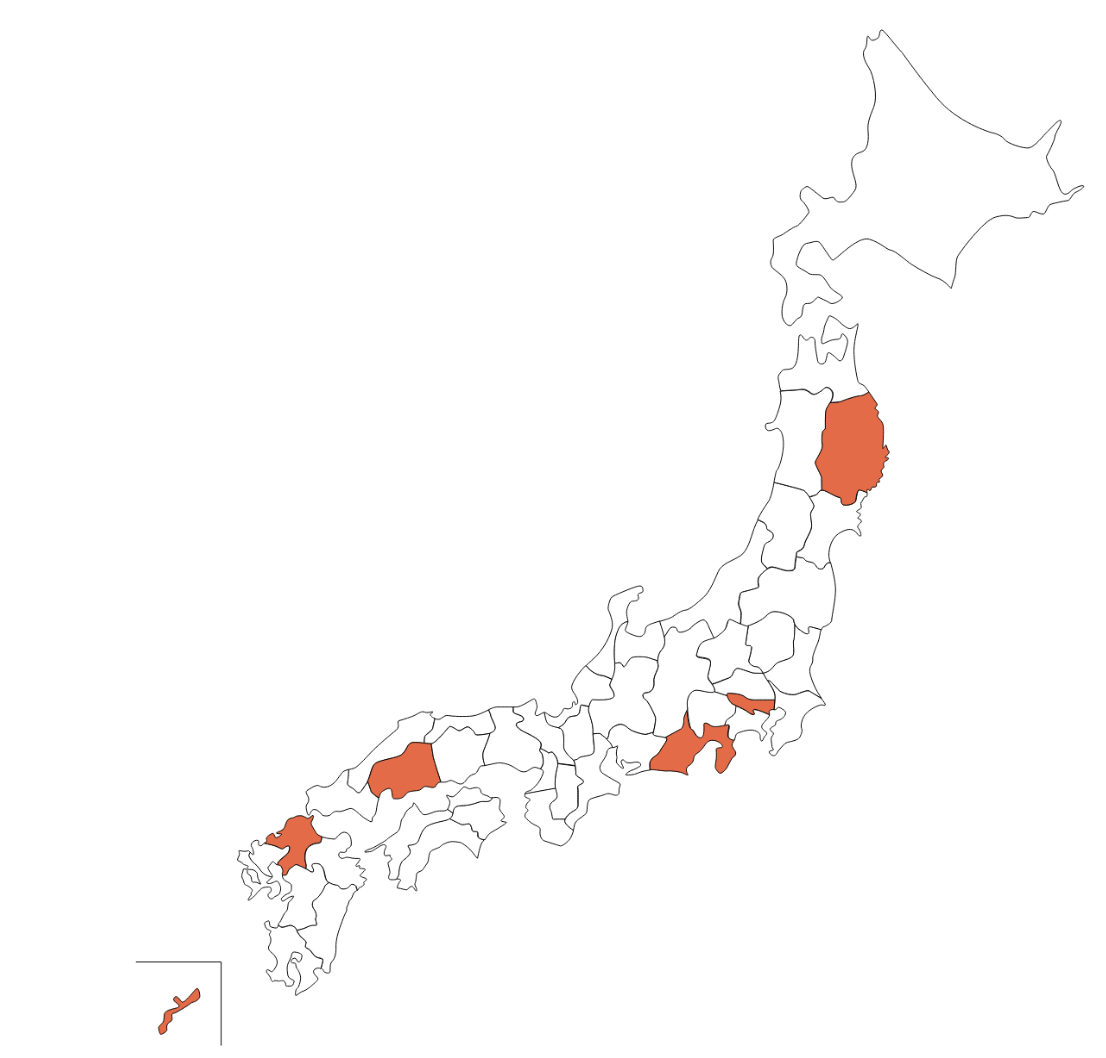
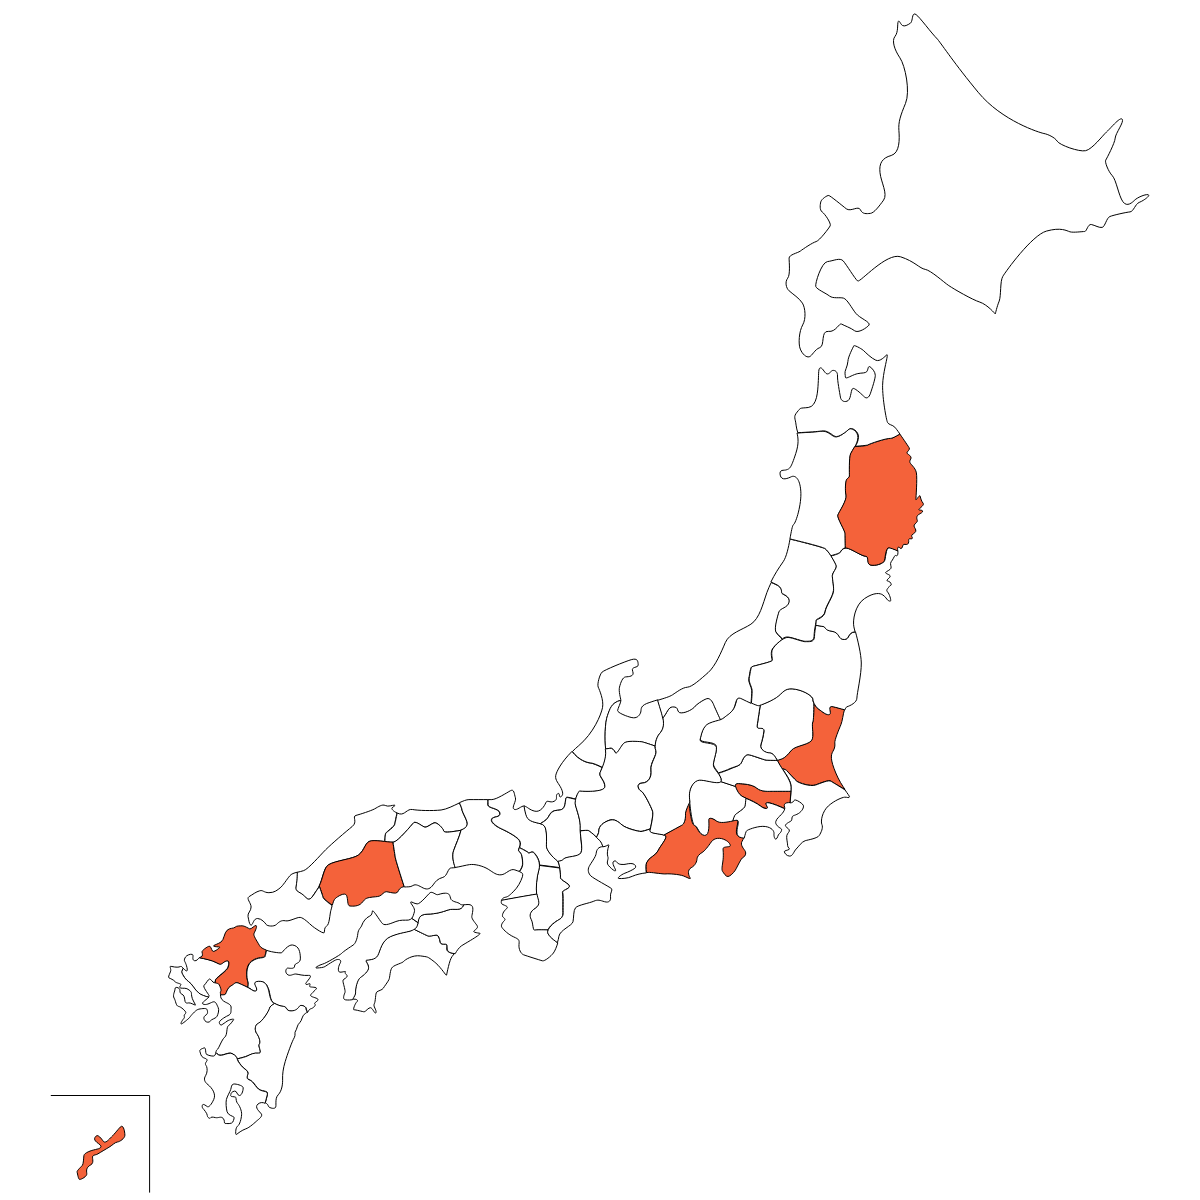
update achievement image

diff --git a/index.html b/index.html
@@ -180,7 +180,7 @@
             <h3 class="mt-5">出張開催の実績</h3>
             <hr class="divider my-4" />
             <p class="mb-4">
-              過去に、岩手県、東京都、静岡県、広島県、福岡県、沖縄県での出張開催実績があります。
+              過去に、岩手県、茨城県、東京都、静岡県、広島県、福岡県、沖縄県での出張開催実績があります。
             </p>
             <img class="img-fluid" src="img/achievement.png" />
             <p class="mb-4">
